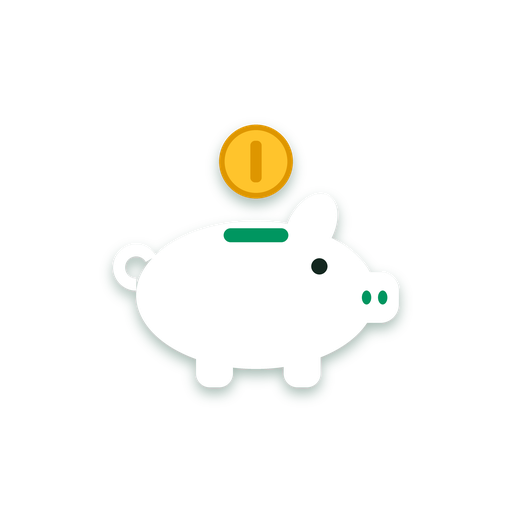
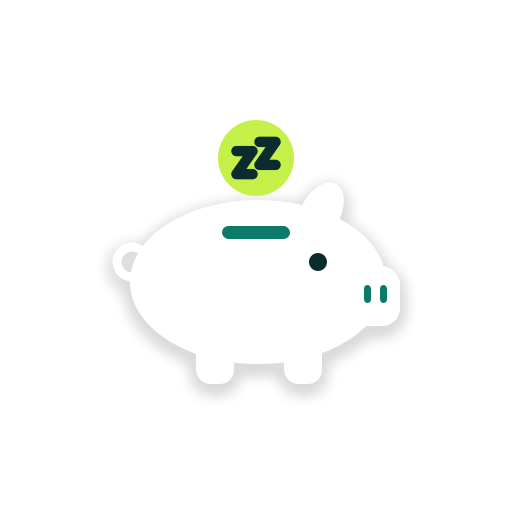
Landing e política de privacidade com a nova marca e as funções novas
- Landing: paleta tinta/mar/lima, logo com o símbolo, perfis PF e MEI,
  comparação com a renda da idade (IBGE), importação de extrato, IA mais curta,
  prints novos e perguntas frequentes sobre MEI e a comparação.
- Privacidade: questionário "Sobre você", perfil de empresa, cota e análise
  guardada da IA, e o que passa a ir para a DeepSeek. Exclusão de conta cita os novos dados.
- Tela de IA nas cores da marca; "R$" não quebra mais de linha nas análises.

Claude-Session: https://claude.ai/code/session_01DrpV5EjoctsJewWUfwRJE5

diff --git a/site/index.html b/site/index.html
@@ -4,8 +4,8 @@
   <meta charset="UTF-8">
   <meta name="viewport" content="width=device-width, initial-scale=1">
   <title>Economizze — suas finanças organizadas, com IA</title>
-  <meta name="description" content="Anote gastos em segundos, acompanhe orçamentos e receba dicas de uma IA que conhece o seu mês. Baixe o Economizze para Android.">
-  <meta name="theme-color" content="#00A86B">
+  <meta name="description" content="Anote gastos em segundos, separe o dinheiro pessoal do MEI, veja como você está comparado a quem tem a sua idade e receba dicas curtas de uma IA. Baixe o Economizze para Android.">
+  <meta name="theme-color" content="#0B2B2E">
   <meta property="og:title" content="Economizze — suas finanças organizadas, com IA">
   <meta property="og:description" content="Anote gastos em segundos, acompanhe orçamentos e receba dicas de uma IA que conhece o seu mês.">
   <meta property="og:image" content="https://economizze.tech/img/icon-192.png">
@@ -15,16 +15,19 @@
   <link rel="preconnect" href="https://fonts.gstatic.com" crossorigin>
   <link href="https://fonts.googleapis.com/css2?family=Nunito:wght@500;700;800;900&display=swap" rel="stylesheet">
   <style>
+    /* Paleta da marca (brand/README.md): tinta, mar, lima e névoa. */
     :root {
-      --brand: #00a86b; --brand-2: #00c27c; --brand-dark: #007a4d; --brand-edge: #00804f;
-      --gold: #ffc531; --gold-edge: #d99a00;
-      --bg: #ffffff; --bg-soft: #f2f8f5; --card: #ffffff; --text: #1a1f1d; --muted: #5b6662;
-      --border: #e3eae7; --expense: #e5484d; --income: #00a86b;
+      --tinta: #0b2b2e; --mar: #0c7a68; --lima: #c5f04a;
+      --brand: var(--mar); --brand-2: var(--mar); --brand-dark: var(--tinta); --brand-edge: #075447;
+      --gold: var(--lima); --gold-edge: #93b52c;
+      --accent: var(--mar); /* texto e links de destaque */
+      --bg: #ffffff; --bg-soft: #f2f6f4; --card: #ffffff; --text: #0b2b2e; --muted: #4f625f;
+      --border: #dde7e3; --expense: #d24148; --income: #13864d;
     }
     @media (prefers-color-scheme: dark) {
       :root {
-        --bg: #0f1312; --bg-soft: #151b19; --card: #1a201e; --text: #e7ecea; --muted: #a3aeaa;
-        --border: #2c3532; --income: #2fd08f;
+        --bg: #081e21; --bg-soft: #0b2629; --card: #11302f; --text: #e8f0ee; --muted: #a6b8b4;
+        --border: #24473b; --income: #2fd08f; --accent: var(--lima);
       }
     }
     * { box-sizing: border-box; }
@@ -43,6 +46,7 @@
     .nav .wrap { display: flex; align-items: center; justify-content: space-between; height: 72px; }
     .logo { display: flex; align-items: center; gap: 10px; color: #fff; text-decoration: none; font-weight: 900; font-size: 22px; }
     .logo img { width: 40px; height: 40px; }
+    .logo b { color: var(--lima); font-weight: inherit; }
     .nav a.link { color: #fff; font-weight: 800; text-decoration: none; opacity: .92; }
     .nav a.link:hover { opacity: 1; text-decoration: underline; }
 
@@ -55,7 +59,7 @@
     }
     .btn:active { transform: translateY(5px); box-shadow: none !important; }
     .btn svg { width: 22px; height: 22px; flex: none; }
-    .btn-gold { background: var(--gold); color: #1a1f1d; box-shadow: 0 5px 0 var(--gold-edge); }
+    .btn-gold { background: var(--gold); color: var(--tinta); box-shadow: 0 5px 0 var(--gold-edge); }
     .btn-white { background: #fff; color: var(--brand-dark); box-shadow: 0 5px 0 #c9d8d2; }
     .btn-green { background: var(--brand); color: #fff; box-shadow: 0 5px 0 var(--brand-edge); }
     .btn:focus-visible { outline: 3px solid #fff; outline-offset: 3px; }
@@ -106,7 +110,7 @@
     /* ---------- Seções ---------- */
     section { padding: 80px 0; }
     .soft { background: var(--bg-soft); }
-    .kicker { color: var(--brand); font-weight: 900; letter-spacing: 1px; text-transform: uppercase; font-size: 14px; }
+    .kicker { color: var(--accent); font-weight: 900; letter-spacing: 1px; text-transform: uppercase; font-size: 14px; }
     h2 { font-size: clamp(28px, 3.6vw, 40px); line-height: 1.15; margin: 8px 0 12px; font-weight: 900; letter-spacing: -.3px; }
     .sub { color: var(--muted); font-size: 19px; max-width: 640px; margin: 0; }
     .center { text-align: center; }
@@ -140,12 +144,12 @@
       content: "✓"; position: absolute; left: 0; top: 1px; width: 24px; height: 24px; border-radius: 50%;
       background: var(--brand); color: #fff; font-weight: 900; font-size: 14px; display: grid; place-items: center;
     }
-    .privacy a { color: var(--brand); font-weight: 800; }
+    .privacy a { color: var(--accent); font-weight: 800; }
 
     details { background: var(--card); border: 2px solid var(--border); border-radius: 18px; padding: 16px 20px; margin: 12px 0; }
     summary { cursor: pointer; font-weight: 900; font-size: 18px; list-style: none; display: flex; justify-content: space-between; gap: 12px; }
     summary::-webkit-details-marker { display: none; }
-    summary::after { content: "+"; color: var(--brand); font-size: 24px; line-height: 1; }
+    summary::after { content: "+"; color: var(--accent); font-size: 24px; line-height: 1; }
     details[open] summary::after { content: "–"; }
     details p, details ol { color: var(--muted); margin: 10px 0 0; }
     .faq { max-width: 760px; margin: 40px auto 0; }
@@ -187,7 +191,7 @@
 
 <header class="nav">
   <div class="wrap">
-    <a class="logo" href="/"><img src="img/mascot.png" alt="" width="40" height="40">Economizze</a>
+    <a class="logo" href="/" aria-label="Economizze"><img src="img/simbolo.svg" alt="" width="40" height="40"><span>economi<b>zz</b>e</span></a>
     <a class="link" href="/app/">Entrar no navegador</a>
   </div>
 </header>
@@ -196,9 +200,9 @@
   <div class="hero">
     <div class="wrap">
       <div>
-        <span class="pill">🐷 Seu cofrinho inteligente</span>
+        <span class="pill">Pessoa física e MEI no mesmo app</span>
         <h1>Descubra para onde vai o seu dinheiro e comece a sobrar no fim do mês.</h1>
-        <p class="lead">Anote gastos em segundos, defina limites por categoria e receba dicas de uma inteligência artificial que entende o seu mês.</p>
+        <p class="lead">Anote gastos em segundos, separe o dinheiro da empresa do pessoal, veja como você está em relação a quem tem a sua idade e receba dicas curtas de uma IA que entende o seu mês.</p>
         <div class="ctas">
           <a class="btn btn-gold js-download" href="/download/economizze.apk" download>
             <svg viewBox="0 0 24 24" fill="currentColor" aria-hidden="true"><path d="M17.6 9.48l1.84-3.18a.38.38 0 00-.66-.38l-1.86 3.22a11.4 11.4 0 00-9.84 0L5.22 5.92a.38.38 0 00-.66.38L6.4 9.48A10.8 10.8 0 001 18h22a10.8 10.8 0 00-5.4-8.52zM7 15.25a1.25 1.25 0 110-2.5 1.25 1.25 0 010 2.5zm10 0a1.25 1.25 0 110-2.5 1.25 1.25 0 010 2.5z"/></svg>
@@ -217,7 +221,7 @@
                  alt="Tela inicial do app: saldo do mês, métricas, contas e cartão de crédito">
           </div>
         </div>
-        <div class="tip"><strong>DICA DA IA</strong>Lazer já usou 99% do limite. Que tal um programa em casa no fim de semana? 🍿</div>
+        <div class="tip"><strong>DICA DA IA</strong>Lazer passou do limite em R$ 20. Um programa em casa no sábado já resolve 🍿</div>
       </div>
     </div>
   </div>
@@ -239,14 +243,29 @@
           <p>Defina quanto quer gastar com mercado, lazer ou transporte e veja quanto ainda sobra no mês.</p>
         </div>
         <div class="feature">
+          <div class="ico" style="background:#e2f7ae">🏪</div>
+          <h3>Pessoal e empresa (MEI)</h3>
+          <p>Um perfil para você e outro para o CNPJ, com contas separadas. O app acompanha o teto de R$ 81 mil do MEI e lembra do DAS.</p>
+        </div>
+        <div class="feature">
+          <div class="ico" style="background:#dff1ff">📈</div>
+          <h3>Como você está</h3>
+          <p>Compare sua renda com a de quem tem a sua idade no Brasil, com dados do IBGE, e veja todo mês se fechou no azul.</p>
+        </div>
+        <div class="feature">
           <div class="ico" style="background:#f0e6ff">✨</div>
-          <h3>IA que dá dicas</h3>
-          <p>Receba uma análise do seu mês e pergunte coisas como "onde posso cortar gastos?".</p>
+          <h3>IA que fala sua língua</h3>
+          <p>Análise do mês e respostas curtas, como de um amigo que entende de dinheiro. Pergunte "onde posso cortar gastos?".</p>
         </div>
         <div class="feature">
           <div class="ico" style="background:#dff1ff">📊</div>
           <h3>Gráficos claros</h3>
           <p>Veja para onde vai o dinheiro por categoria e compare com o mês anterior.</p>
+        </div>
+        <div class="feature">
+          <div class="ico" style="background:#ffe9d6">📄</div>
+          <h3>Importe o extrato</h3>
+          <p>Traga o extrato ou a fatura do banco (OFX, CSV ou PDF): o app sugere as categorias e não repete o que você já lançou.</p>
         </div>
         <div class="feature">
           <div class="ico" style="background:#f0e6ff">💳</div>
@@ -297,8 +316,10 @@
       <div class="kicker">Veja por dentro</div>
       <h2>Simples de usar, bonito de ver</h2>
       <div class="shots">
+        <figure class="shot"><div class="phone"><div class="screen"><img src="img/telas/situacao.webp" loading="lazy" width="540" height="1199" alt="Sua situação no mês e comparação da renda com quem tem a mesma idade, segundo o IBGE"></div></div><p>Sua situação<small>O mês e a comparação com a sua idade</small></p></figure>
+        <figure class="shot"><div class="phone"><div class="screen"><img src="img/telas/empresa.webp" loading="lazy" width="540" height="1199" alt="Perfil da empresa com lucro do mês e o teto do MEI"></div></div><p>Perfil MEI<small>Lucro, teto e DAS</small></p></figure>
         <figure class="shot"><div class="phone"><div class="screen"><img src="img/telas/lancamentos.webp" loading="lazy" width="540" height="1199" alt="Lista de lançamentos do mês agrupada por dia"></div></div><p>Lançamentos<small>Tudo do mês, dia a dia</small></p></figure>
-        <figure class="shot"><div class="phone"><div class="screen"><img src="img/telas/fatura.webp" loading="lazy" width="540" height="1199" alt="Fatura do cartão de crédito com limite livre"></div></div><p>Cartão de crédito<small>Fatura, limite e parcelas</small></p></figure>
+        <figure class="shot"><div class="phone"><div class="screen"><img src="img/telas/ia.webp" loading="lazy" width="540" height="1199" alt="Tela de IA com análise do mês e perguntas"></div></div><p>IA<small>Análise e respostas curtas</small></p></figure>
         <figure class="shot"><div class="phone"><div class="screen"><img src="img/telas/metas.webp" loading="lazy" width="540" height="1199" alt="Orçamentos por categoria e metas de economia"></div></div><p>Planejamento<small>Orçamentos e metas</small></p></figure>
         <figure class="shot"><div class="phone"><div class="screen"><img src="img/telas/conquistas.webp" loading="lazy" width="540" height="1199" alt="Sequência de dias e conquistas"></div></div><p>Conquistas<small>Economizar vira hábito</small></p></figure>
       </div>
@@ -311,7 +332,7 @@
       <h2>Três passos e seu mês está organizado</h2>
       <div class="steps">
         <div class="step"><h3>Baixe e crie a conta</h3><p>Só nome, e-mail e senha. Nenhum dado de banco ou cartão.</p></div>
-        <div class="step"><h3>Configure em 2 minutos</h3><p>Um passo a passo guiado cadastra suas contas e seus primeiros limites.</p></div>
+        <div class="step"><h3>Conte um pouco sobre você</h3><p>Idade, de onde vem a renda e seu objetivo. Em 2 minutos você vê como está em relação a quem tem a sua idade.</p></div>
         <div class="step"><h3>Anote e acompanhe</h3><p>Registre os gastos do dia a dia e veja o mês fechar no azul.</p></div>
       </div>
     </div>
@@ -353,11 +374,19 @@
         </details>
         <details id="nao-instala">
           <summary>Apareceu "App não instalado" ou "incompatível"?</summary>
-          <p>O download principal é otimizado para os celulares atuais (processador de 64 bits) e por isso é bem mais leve. Em aparelhos mais antigos ou de entrada, baixe a <a class="js-universal" href="/download/economizze-universal.apk" download style="color:var(--brand)">versão compatível com todos os celulares</a>, que é maior.</p>
+          <p>O download principal é otimizado para os celulares atuais (processador de 64 bits) e por isso é bem mais leve. Em aparelhos mais antigos ou de entrada, baixe a <a class="js-universal" href="/download/economizze-universal.apk" download style="color:var(--accent)">versão compatível com todos os celulares</a>, que é maior.</p>
         </details>
         <details>
           <summary>Tem para iPhone?</summary>
-          <p>Ainda não há app para iPhone, mas você pode usar o Economizze pelo navegador, em <a href="/app/" style="color:var(--brand)">economizze.tech/app</a>, com a mesma conta.</p>
+          <p>Ainda não há app para iPhone, mas você pode usar o Economizze pelo navegador, em <a href="/app/" style="color:var(--accent)">economizze.tech/app</a>, com a mesma conta.</p>
+        </details>
+        <details>
+          <summary>Serve para quem é MEI ou tem CNPJ?</summary>
+          <p>Sim. Crie um perfil de empresa e troque entre ele e o pessoal no topo do app. Cada perfil tem as próprias contas e categorias (vendas, DAS, fornecedores, pró-labore). Para o MEI, o app mostra quanto você já faturou no ano, a projeção até dezembro e quanto ainda dá para faturar por mês sem passar do teto.</p>
+        </details>
+        <details>
+          <summary>De onde vem a comparação com a minha idade?</summary>
+          <p>Dos dados públicos da PNAD Contínua, do IBGE: a renda de todos os trabalhos das pessoas ocupadas, por faixa de idade e região. As suas respostas ficam na sua conta; nada é enviado ao IBGE.</p>
         </details>
         <details>
           <summary>Preciso informar dados do meu banco?</summary>
@@ -365,7 +394,7 @@
         </details>
         <details>
           <summary>O que a inteligência artificial vê?</summary>
-          <p>Só quando você pede uma análise ou faz uma pergunta, um resumo do mês (totais, categorias e maiores gastos) é enviado ao serviço de IA. Seu nome e seu e-mail não são enviados. Os detalhes estão na <a href="privacidade.html" style="color:var(--brand)">política de privacidade</a>.</p>
+          <p>Só quando você pede uma análise ou faz uma pergunta, um resumo do mês (totais, categorias e maiores gastos) e, se você respondeu, sua idade, estado e fontes de renda vão para o serviço de IA. Seu nome, seu e-mail e o nome da sua empresa não são enviados. São até 20 perguntas por dia. Os detalhes estão na <a href="privacidade.html" style="color:var(--accent)">política de privacidade</a>.</p>
         </details>
         <details>
           <summary>Consigo levar meus dados para uma planilha?</summary>

diff --git a/site/privacidade.html b/site/privacidade.html
@@ -9,12 +9,12 @@
   <style>
     :root {
       --bg: #f3f6f5; --card: #ffffff; --text: #1a1f1d; --muted: #5b6662;
-      --brand: #00a86b; --border: #dfe6e3; --warn-bg: #fff7e6; --warn-border: #f5c56b;
+      --brand: #0c7a68; --border: #dfe6e3; --warn-bg: #fff7e6; --warn-border: #f5c56b;
     }
     @media (prefers-color-scheme: dark) {
       :root {
         --bg: #101413; --card: #1a201e; --text: #e7ecea; --muted: #a3aeaa;
-        --brand: #2fd08f; --border: #2c3532; --warn-bg: #2a2416; --warn-border: #8a6a28;
+        --brand: #c5f04a; --border: #2c3532; --warn-bg: #2a2416; --warn-border: #8a6a28;
       }
     }
     * { box-sizing: border-box; }
@@ -52,7 +52,7 @@
   <header>
     <a class="brand" href="/">Economizze</a>
     <h1>Política de Privacidade</h1>
-    <p class="updated">Última atualização: 20 de outubro de 2026</p>
+    <p class="updated">Última atualização: 24 de outubro de 2026</p>
   </header>
 
   <section>
@@ -103,6 +103,29 @@
       O app <strong>não</strong> se conecta ao seu banco e não pede dados bancários, de cartão ou senhas de
       banco. Tudo o que está no Economizze foi digitado, importado ou confirmado por você, ou enviado por você
       ao assistente.
+    </p>
+
+    <h3>Sobre você (opcional)</h3>
+    <p>
+      No início, e quando quiser em "Sobre você", o app pergunta o <strong>ano de nascimento, o estado onde você
+      mora, de onde vem sua renda</strong> (por exemplo, carteira assinada, autônomo, MEI, aposentadoria),
+      <strong>quantos trabalhos você tem, a renda mensal aproximada e o seu objetivo</strong>. Tudo é opcional.
+      Usamos essas respostas para comparar a sua renda com a de quem tem a mesma idade no Brasil (a partir de
+      dados públicos do IBGE, sem enviar nada seu ao IBGE) e para deixar as análises e dicas mais certeiras.
+    </p>
+
+    <h3>Perfil de empresa (opcional)</h3>
+    <p>
+      Se você criar um perfil de empresa (PJ ou MEI), guardamos o <strong>nome da empresa, o CNPJ, se você
+      informar, e se ela é MEI</strong>, além das contas, categorias e lançamentos desse perfil, separados dos
+      pessoais. Com eles calculamos, por exemplo, o faturamento do ano em relação ao teto do MEI.
+    </p>
+
+    <h3>Uso da inteligência artificial</h3>
+    <p>
+      Para limitar o uso diário da IA, contamos quantas perguntas e análises você fez em cada dia. Também
+      guardamos a última análise do mês gerada pela IA, para mostrá-la de novo sem chamar a IA enquanto seus
+      dados não mudarem. Ela é apagada junto com a conta ou o perfil.
     </p>
 
     <h3>Extratos importados (opcional)</h3>
@@ -191,8 +214,10 @@
     <ul>
       <li><strong>Insights e "Pergunte à IA", no app:</strong> um resumo do mês, com saldo, totais de receitas e
         despesas do mês e do mês anterior, gastos por categoria, orçamentos e as 10 maiores despesas do mês
-        (data, descrição, categoria e valor), além da sua pergunta. <strong>Seu nome, seu e-mail e os nomes das
-        suas contas não são enviados.</strong></li>
+        (data, descrição, categoria e valor), além da sua pergunta. Se você respondeu o "Sobre você", vão também
+        a sua idade, o estado, as fontes de renda, o número de trabalhos, o objetivo e a comparação da sua renda
+        com a da sua faixa de idade. No perfil de empresa, vão os números da empresa e o faturamento do ano.
+        <strong>Seu nome, seu e-mail, o nome e o CNPJ da empresa e os nomes das suas contas não são enviados.</strong></li>
       <li><strong>Importação de extrato em PDF:</strong> o texto extraído do PDF, para identificar os
         lançamentos. Arquivos OFX e CSV não são enviados à IA, e os avisos do banco no celular também não.</li>
       <li><strong>Assistente no WhatsApp:</strong> o texto das suas mensagens (incluindo o texto transcrito de

diff --git a/mobile/lib/screens/insights_screen.dart b/mobile/lib/screens/insights_screen.dart
@@ -4,6 +4,7 @@ import 'package:provider/provider.dart';
 import '../models/models.dart';
 import '../services/api_client.dart';
 import '../state/app_state.dart';
+import '../theme.dart';
 import '../utils/format.dart';
 import '../widgets/common.dart';
 
@@ -99,11 +100,7 @@ class _InsightsScreenState extends State<InsightsScreen> {
               padding: const EdgeInsets.all(24),
               decoration: BoxDecoration(
                 borderRadius: BorderRadius.circular(28),
-                gradient: const LinearGradient(
-                  colors: [Color(0xFF6D5DF6), Color(0xFF3B82F6)],
-                  begin: Alignment.topLeft,
-                  end: Alignment.bottomRight,
-                ),
+                gradient: brandGradient,
               ),
               child: Column(children: [
                   Container(
@@ -121,7 +118,7 @@ class _InsightsScreenState extends State<InsightsScreen> {
                   const SizedBox(height: 18),
                   FilledButton.icon(
                     style: FilledButton.styleFrom(
-                        backgroundColor: Colors.white, foregroundColor: const Color(0xFF4F46E5)),
+                        backgroundColor: lima, foregroundColor: tinta),
                     onPressed: _loading ? null : _generate,
                     icon: _loading
                         ? const SizedBox(width: 18, height: 18, child: CircularProgressIndicator(strokeWidth: 2))
@@ -136,7 +133,7 @@ class _InsightsScreenState extends State<InsightsScreen> {
           const _PrivacyNote(),
           const SizedBox(height: 24),
           Row(children: [
-            const IconBadge(Icons.forum_outlined, Color(0xFF6D5DF6), size: 34),
+            const IconBadge(Icons.forum_outlined, mar, size: 34),
             const SizedBox(width: 10),
             Expanded(
               child: Text('Pergunte à IA',

diff --git a/site/excluir-conta.html b/site/excluir-conta.html
@@ -7,9 +7,9 @@
   <meta name="description" content="Como excluir sua conta do Economizze e todos os seus dados.">
   <link rel="icon" type="image/png" href="favicon.png">
   <style>
-    :root { --bg: #f3f6f5; --card: #ffffff; --text: #1a1f1d; --muted: #5b6662; --brand: #00a86b; --border: #dfe6e3; }
+    :root { --bg: #f3f6f5; --card: #ffffff; --text: #1a1f1d; --muted: #5b6662; --brand: #0c7a68; --border: #dfe6e3; }
     @media (prefers-color-scheme: dark) {
-      :root { --bg: #101413; --card: #1a201e; --text: #e7ecea; --muted: #a3aeaa; --brand: #2fd08f; --border: #2c3532; }
+      :root { --bg: #101413; --card: #1a201e; --text: #e7ecea; --muted: #a3aeaa; --brand: #c5f04a; --border: #2c3532; }
     }
     * { box-sizing: border-box; }
     body { margin: 0; background: var(--bg); color: var(--text); font: 16px/1.65 system-ui, -apple-system, "Segoe UI", Roboto, sans-serif; }
@@ -51,8 +51,8 @@
   <section>
     <h2>O que é apagado</h2>
     <ul>
-      <li>Seu cadastro: nome, e-mail e senha.</li>
-      <li>Todas as suas contas, lançamentos, transferências, categorias e orçamentos.</li>
+      <li>Seu cadastro: nome, e-mail, senha e as respostas do "Sobre você".</li>
+      <li>Todas as suas contas, lançamentos, transferências, categorias, orçamentos e metas, inclusive os dos perfis de empresa.</li>
       <li>O vínculo com o WhatsApp e o histórico de conversas com o assistente.</li>
     </ul>
     <p>

diff --git a/backend/Financas.Api/Services/AnalysisService.cs b/backend/Financas.Api/Services/AnalysisService.cs
@@ -13,7 +13,8 @@ namespace Financas.Api.Services;
 public class AnalysisService(AppDbContext db, FinanceService finance, AppClock clock, IConfiguration config)
 {
     private static readonly CultureInfo PtBr = new("pt-BR");
-    private static string Money(decimal v) => Math.Round(v).ToString("C0", PtBr);
+    // Espaço inquebrável: "R$" nunca fica sozinho no fim da linha.
+    private static string Money(decimal v) => Math.Round(v).ToString("C0", PtBr).Replace("R$ ", "R$\u00A0");
     private static string Pct(double v) => $"{Math.Round(v * 100):0}%";
 
     public decimal MeiLimit => config.GetValue("Mei:AnnualLimit", 81_000m);
